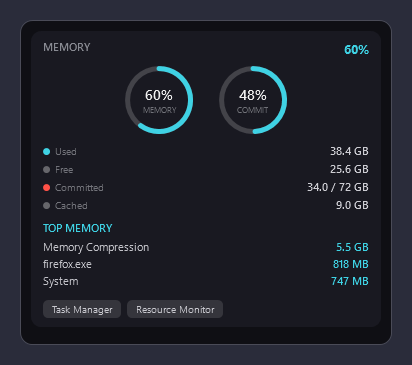
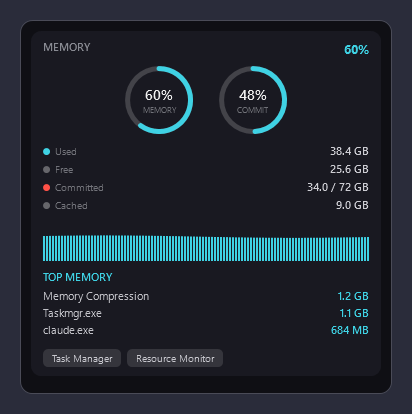
feat(panel): memory history graph in the Memory card
The RAM series was already recorded every tick for the taskbar mini graph; the Memory card now draws it as a history bar graph between the breakdown and TOP MEMORY, matching the CPU card treatment. Refreshed panel screenshots.

diff --git a/StatsPanelWindow.xaml b/StatsPanelWindow.xaml
@@ -290,6 +290,11 @@
                                        Text="{Binding MemCachedText}" />
                         </Grid>
 
+                        <!-- Memory pressure over time — the same history treatment the CPU card gets -->
+                        <ctrl:HistoryBarGraph Height="40" Mode="Bars" Max="100" Margin="0,9,0,0"
+                                              Series="{Binding RamSeries}"
+                                              Tick="{Binding Tick}" />
+
                         <!-- Top memory consumers, the iStat memory-dropdown signature -->
                         <StackPanel Margin="0,9,0,0">
                             <StackPanel.Style>

diff --git a/ViewModels/StatsPanelViewModel.cs b/ViewModels/StatsPanelViewModel.cs
@@ -99,6 +99,7 @@ namespace Kil0bitSystemMonitor.ViewModels
         public Series CpuSeries => _history.Cpu;
         public Series CpuSystemSeries => _history.CpuSystem;
         public Series GpuSeries => _history.Gpu;
+        public Series RamSeries => _history.Ram;
         public Series NetUpSeries => _history.NetUp;
         public Series NetDownSeries => _history.NetDown;
 
